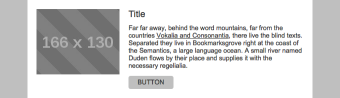
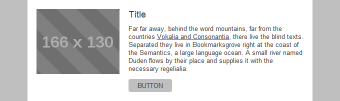
add toggle visible switch for header image

diff --git a/templates/idealshape/template-idealshape.html b/templates/idealshape/template-idealshape.html
@@ -52,6 +52,7 @@
       hrStyle { label: Separator Style;properties:color hrWidth hrHeight; }
       hrStyle:preview { height: 200%; width: 200%; bottom: 20px; -ko-border-bottom: @[hrHeight]px solid @color; }
       preheaderVisible { label: Show Preheader; extend: visible; help: Preheader block is the first one on the top of the page. It contains web version link and optionally unsubscribe link or a preheader text that will be shown as a preview on some email clients; }
+      headerImageVisible { label: Show Header Image; extend: visible; help: Header Image is reserved for Brand Logos Or Header Image Bar; }
 
       /* content types */
       blocks { label: Blocks; properties: blocks[]; }
@@ -107,7 +108,7 @@
       frameTheme:preview { -ko-background-color: @[backgroundColor] }
       template preheaderText { label: Preheader; }
 
-      template { label: Page; theme: frameTheme ;properties:  preheaderVisible=true; version: 1.0.6; }
+      template { label: Page; theme: frameTheme ;properties:  preheaderVisible=false; version: 1.0.6; headerImageVisible=true; }
 
       footerBlock { label: Unsubscribe Block; theme: frameTheme }
 
@@ -159,6 +160,11 @@
         label: Alternative Text;
       }
       imageBlock { label: Image; properties: gutterVisible=false; variant: gutterVisible; theme: contentTheme }
+
+        imageBlock2 longTextStyle {
+            label: Alternative Text;
+        }
+        imageBlock2 { label: Image; properties: gutterVisible=false; variant: gutterVisible; theme: contentTheme }
 
       doubleImageBlock longTextStyle {
         label: Alternative Text;
@@ -390,6 +396,14 @@
       -ko-color: @longTextStyle.linksColor;
       text-decoration: underline;
     }
+    [data-ko-block=imageBlock2] a,
+    [data-ko-block=imageBlock2] a:link,
+    [data-ko-block=imageBlock2] a:visited,
+    [data-ko-block=imageBlock2] a:hover {
+        color: #3f3f3f;
+        -ko-color: @longTextStyle.linksColor;
+        text-decoration: underline;
+    }
   </style>
 </head>
 <body bgcolor="#3f3f3f" text="#919191" alink="#cccccc" vlink="#cccccc" style="background-color: #3f3f3f; color: #919191;
@@ -398,47 +412,6 @@
   -ko-attr-vlink: @_theme_.frameTheme.longTextStyle.linksColor">
 
   <center>
-
-      <!-- TestimageBlock  -->
-      <table class="vb-outer" width="100%" cellpadding="0" border="0" cellspacing="0" bgcolor="#bfbfbf" style="background-color: #bfbfbf;
-    -ko-background-color: @externalBackgroundColor; -ko-attr-bgcolor: @externalBackgroundColor" data-ko-block="imageBlock">
-          <tr>
-              <td class="vb-outer" valign="top" align="center">
-
-                  <!--[if (gte mso 9)|(lte ie 8)]><table align="center" border="0" cellspacing="0" cellpadding="0" width="570"><tr><td align="center" valign="top"><![endif]-->
-                  <div class="oldwebkit">
-                      <table data-ko-display="gutterVisible eq false" width="570" class="vb-container fullwidth" cellpadding="0" border="0" bgcolor="#ffffff" align="center"
-                             cellspacing="0" style="width: 100%; max-width: 570px; background-color: #ffffff; -ko-background-color: @backgroundColor; -ko-attr-bgcolor: @backgroundColor;">
-                          <tr>
-                              <td valign="top" align="center">
-                                  <a data-ko-link="image.url" href="" style="text-decoration: none;"><img data-ko-editable="image.src"
-                                                                                                          hspace="0" border="0" vspace="0" width="570" data-ko-placeholder-height="200"
-                                                                                                          src="http://mosaico.io/srv/f-default/img?method=placeholder&amp;params=570%2C200" class="mobile-full"
-                                                                                                          alt="" style="max-width: 570px; display: block; border-radius: 0px; width: 100%; height: auto; font-size: 13px;
-                  font-family: Arial, Helvetica, sans-serif; color: #3f3f3f; -ko-font-size: @[longTextStyle.size]px;
-                  -ko-font-family: @longTextStyle.face; -ko-color: @longTextStyle.color; -ko-attr-alt: @image.alt;" /></a>
-                              </td>
-                          </tr>
-                      </table>
-                      <table data-ko-display="gutterVisible" width="570" class="vb-container fullpad" cellpadding="0" border="0" bgcolor="#ffffff" align="center"
-                             cellspacing="18" style="width: 100%; max-width: 570px; background-color: #ffffff; -ko-background-color: @backgroundColor; -ko-attr-bgcolor: @backgroundColor; display: none;">
-                          <tr>
-                              <td valign="top" align="center">
-                                  <a data-ko-link="image.url" href="" style="text-decoration: none;"><img data-ko-editable="image.src"
-                                                                                                          hspace="0" border="0" vspace="0" width="534" data-ko-placeholder-height="280"
-                                                                                                          src="http://mosaico.io/srv/f-default/img?method=placeholder&amp;params=534%2C280" class="mobile-full"
-                                                                                                          alt="" style="max-width: 534px; display: block; border-radius: 0px; width: 100%; height: auto; font-size: 13px;
-                  font-family: Arial, Helvetica, sans-serif; color: #3f3f3f; -ko-font-size: @[longTextStyle.size]px;
-                  -ko-font-family: @longTextStyle.face; -ko-color: @longTextStyle.color; -ko-attr-alt: @image.alt;" /></a>
-                              </td>
-                          </tr>
-                      </table>
-                  </div>
-                  <!--[if (gte mso 9)|(lte ie 8)]></td></tr></table><![endif]-->
-              </td>
-          </tr>
-      </table>
-      <!-- TestimageBlock -->
 
   <!-- preheaderBlock -->
   <div data-ko-display="preheaderVisible" data-ko-wrap="false">
@@ -509,7 +482,45 @@
   </div>
   <!-- /preheaderBlock -->
 
-  <div data-ko-container="main" data-ko-wrap="false">
+      <div data-ko-container="main" data-ko-wrap="false">
+
+      <!-- imageBlock2  -->
+          <div data-ko-display="headerImageVisible" data-ko-wrap="false">
+      <table class="vb-outer" width="100%" cellpadding="0" border="0" cellspacing="0" bgcolor="#bfbfbf" style="background-color: #bfbfbf; -ko-background-color: @externalBackgroundColor; -ko-attr-bgcolor: @externalBackgroundColor" data-ko-block="imageBlock2">
+          <tr>
+              <td class="vb-outer" valign="top" align="center">
+
+                  <!--[if (gte mso 9)|(lte ie 8)]><table align="center" border="0" cellspacing="0" cellpadding="0" width="570"><tr><td align="center" valign="top"><![endif]-->
+                  <div class="oldwebkit">
+                      <table data-ko-display="gutterVisible eq false" width="570" class="vb-container fullwidth" cellpadding="0" border="0" bgcolor="#ffffff" align="center"
+                             cellspacing="0" style="width: 100%; max-width: 570px; background-color: #ffffff; -ko-background-color: @backgroundColor; -ko-attr-bgcolor: @backgroundColor;">
+                          <tr>
+                              <td valign="top" align="center">
+                                  <a data-ko-link="image.url" href="" style="text-decoration: none;"><img data-ko-editable="image.src"
+                                                                                                          hspace="0" border="0" vspace="0" width="570" data-ko-placeholder-height="200"
+                                                                                                          src="http://mosaico.io/srv/f-default/img?method=placeholder&amp;params=570%2C200" class="mobile-full"
+                                                                                                          alt="" style="max-width: 570px; display: block; border-radius: 0px; width: 100%; height: auto; font-size: 13px; font-family: Arial, Helvetica, sans-serif; color: #3f3f3f; -ko-font-size: @[longTextStyle.size]px; -ko-font-family: @longTextStyle.face; -ko-color: @longTextStyle.color; -ko-attr-alt: @image.alt;" /></a>
+                              </td>
+                          </tr>
+                      </table>
+                      <table data-ko-display="gutterVisible" width="570" class="vb-container fullpad" cellpadding="0" border="0" bgcolor="#ffffff" align="center"
+                             cellspacing="18" style="width: 100%; max-width: 570px; background-color: #ffffff; -ko-background-color: @backgroundColor; -ko-attr-bgcolor: @backgroundColor; display: none;">
+                          <tr>
+                              <td valign="top" align="center">
+                                  <a data-ko-link="image.url" href="" style="text-decoration: none;"><img data-ko-editable="image.src"
+                                                                                                          hspace="0" border="0" vspace="0" width="534" data-ko-placeholder-height="280"
+                                                                                                          src="http://mosaico.io/srv/f-default/img?method=placeholder&amp;params=534%2C280" class="mobile-full"
+                                                                                                          alt="" style="max-width: 534px; display: block; border-radius: 0px; width: 100%; height: auto; font-size: 13px; font-family: Arial, Helvetica, sans-serif; color: #3f3f3f; -ko-font-size: @[longTextStyle.size]px; -ko-font-family: @longTextStyle.face; -ko-color: @longTextStyle.color; -ko-attr-alt: @image.alt;" /></a>
+                              </td>
+                          </tr>
+                      </table>
+                  </div>
+                  <!--[if (gte mso 9)|(lte ie 8)]></td></tr></table><![endif]-->
+              </td>
+          </tr>
+      </table>
+          </div>
+      <!-- /imageBlock2 -->
 
   <!-- logoBlock -->
   <table class="vb-outer" width="100%" cellpadding="0" border="0" cellspacing="0" bgcolor="#bfbfbf"
